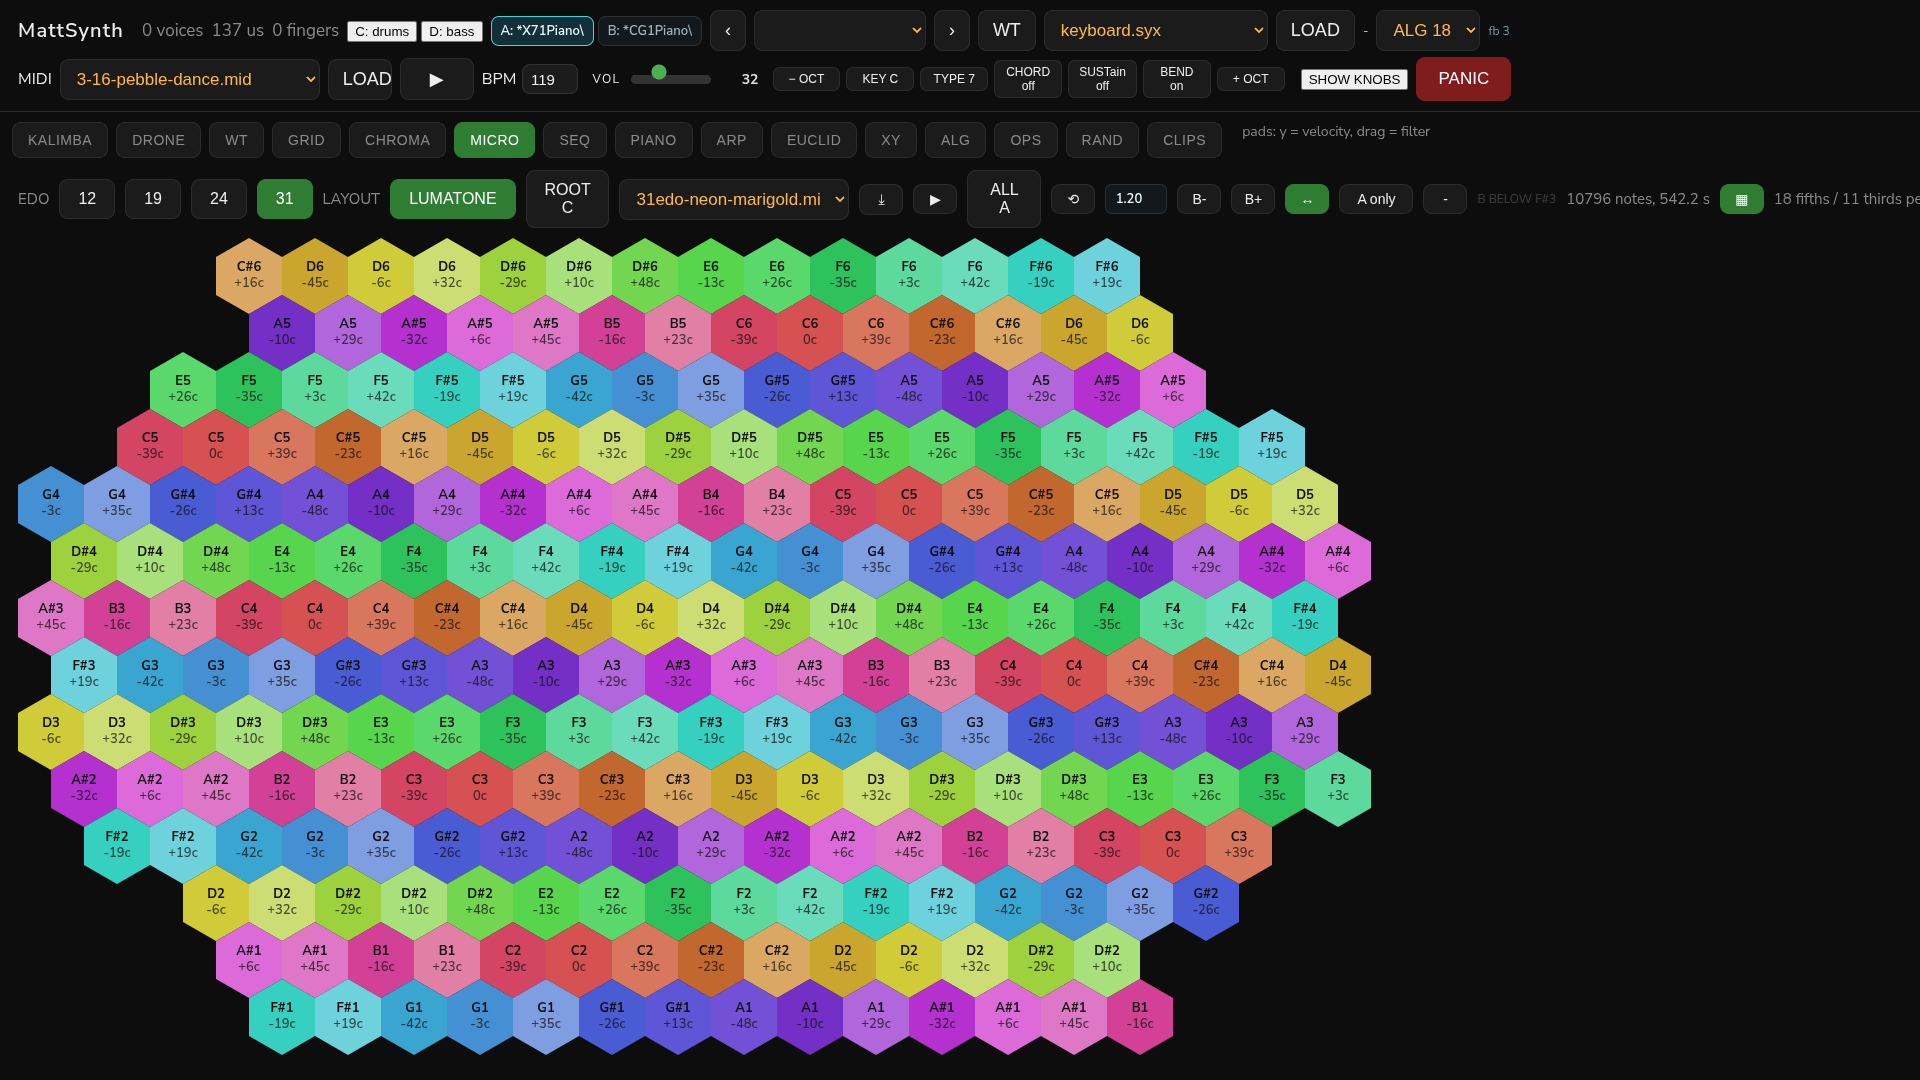
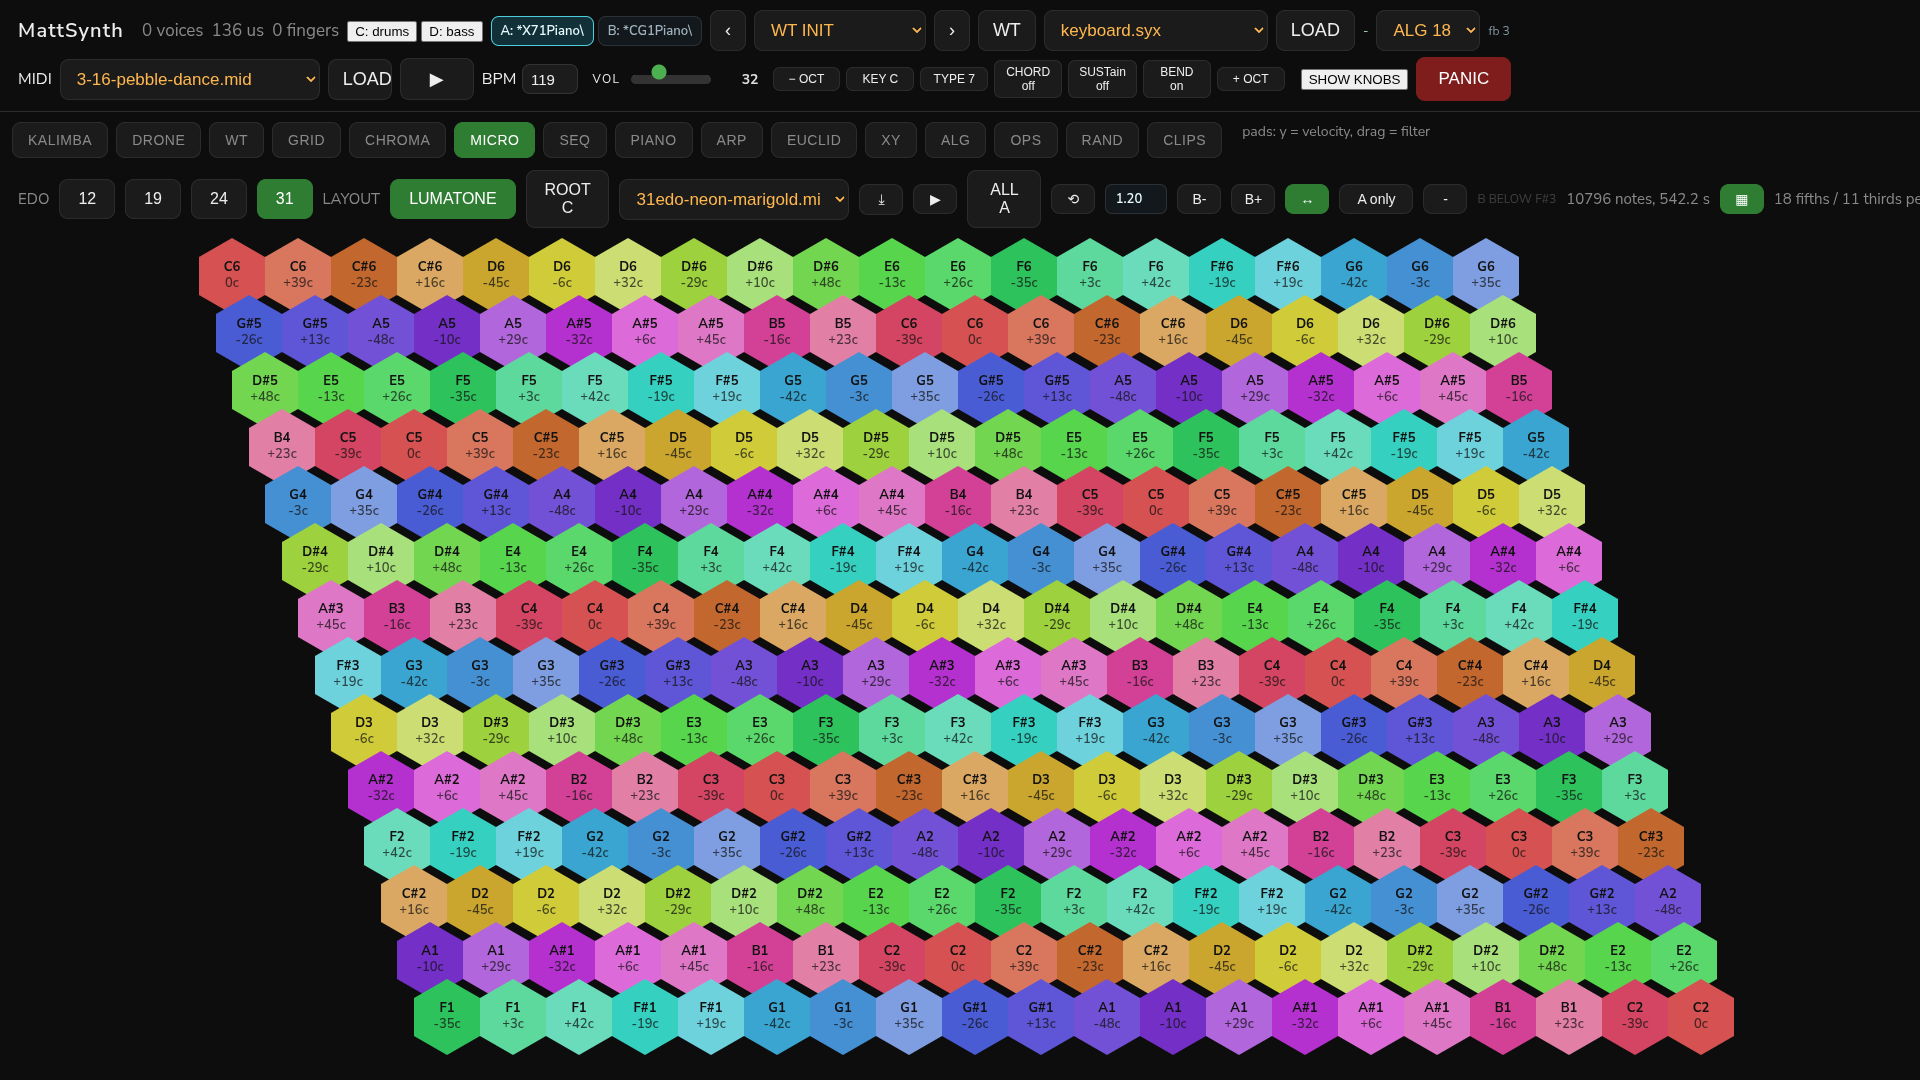
micro: 280 keys in a sheared parallelogram, like the hardware
Fourteen rows of twenty, each row shifted a quarter of a key from the one above, so
the columns run on a diagonal and the outline leans instead of stepping. Block is
centered in the stage. Mapping and zones unchanged.

diff --git a/panel/panel_ui.py b/panel/panel_ui.py
@@ -4195,11 +4195,10 @@ function hexGrid(container){
        row so the outline slants and every interval runs on a diagonal */
     const COLS = 20, ROWS = 14;
     const insetOf = (row)=>{
-      const d = Math.abs(row - (ROWS - 1) / 2);   /* 0 in the middle, 6.5 at the edges */
-      return Math.max(0, Math.min(4, Math.round((d - 2.4) * 0.85)));
+      return 0;
     };
     const wFitH = availH / (0.75 * (ROWS - 1) + 1) * (Math.sqrt(3) / 2);
-    const wFitW = availW / (COLS + 0.5);
+    const wFitW = availW / (COLS + 0.25 * ROWS);
     const w = Math.max(30, Math.floor(Math.min(wFitH, wFitW)));
     const h = Math.round(w * 2 / Math.sqrt(3));       /* pointy-top hexagon */
     const vpitch = h * 0.75;                          /* rows interlock by a quarter */
@@ -4215,9 +4214,7 @@ function hexGrid(container){
       for(let c = 0; c < COLS; c++){
         const DRUMS = [36, 38, 40, 42, 44];
         const DRUM_NAMES = ["KICK", "SNR", "PERC", "CHH", "OHH"];
-        const ins = insetOf(r);
-        if(c < ins || c > COLS - 1 - ins) continue;    /* the slanted edge */
-        const rc = c - ins;                            /* position within the row */
+        const rc = c;
         const rUp = ROWS - 1 - r;
         let zone = 0, fNote = null, fLab = null, fCents = 0;
         if(micro.splitMode === "abcd" && rUp === 0){
@@ -4244,7 +4241,11 @@ function hexGrid(container){
         k.dataset.zone = zone;
         k.style.width = w + "px";
         k.style.height = h + "px";
-        k.style.left = Math.round(c * w + (r % 2 ? w / 2 : 0)) + "px";
+        /* one half key of shear per row: that is what makes the intervals read as
+           diagonals on the real instrument, and it replaces the odd row stagger */
+        const blockW = (COLS + 0.25 * (ROWS - 1)) * w;
+        const padX = Math.max(0, Math.round((availW - blockW) / 2));
+        k.style.left = Math.round(padX + (c + (r - (ROWS - 1) / 2) * 0.25 + (ROWS - 1) / 8) * w) + "px";
         k.style.top = Math.round(r * vpitch) + "px";
         const zn = +k.dataset.zone || 0;
         if(zn === 2 || zn === 3 || (micro.splitOn && (+k.dataset.note < (micro.split|0)))){
